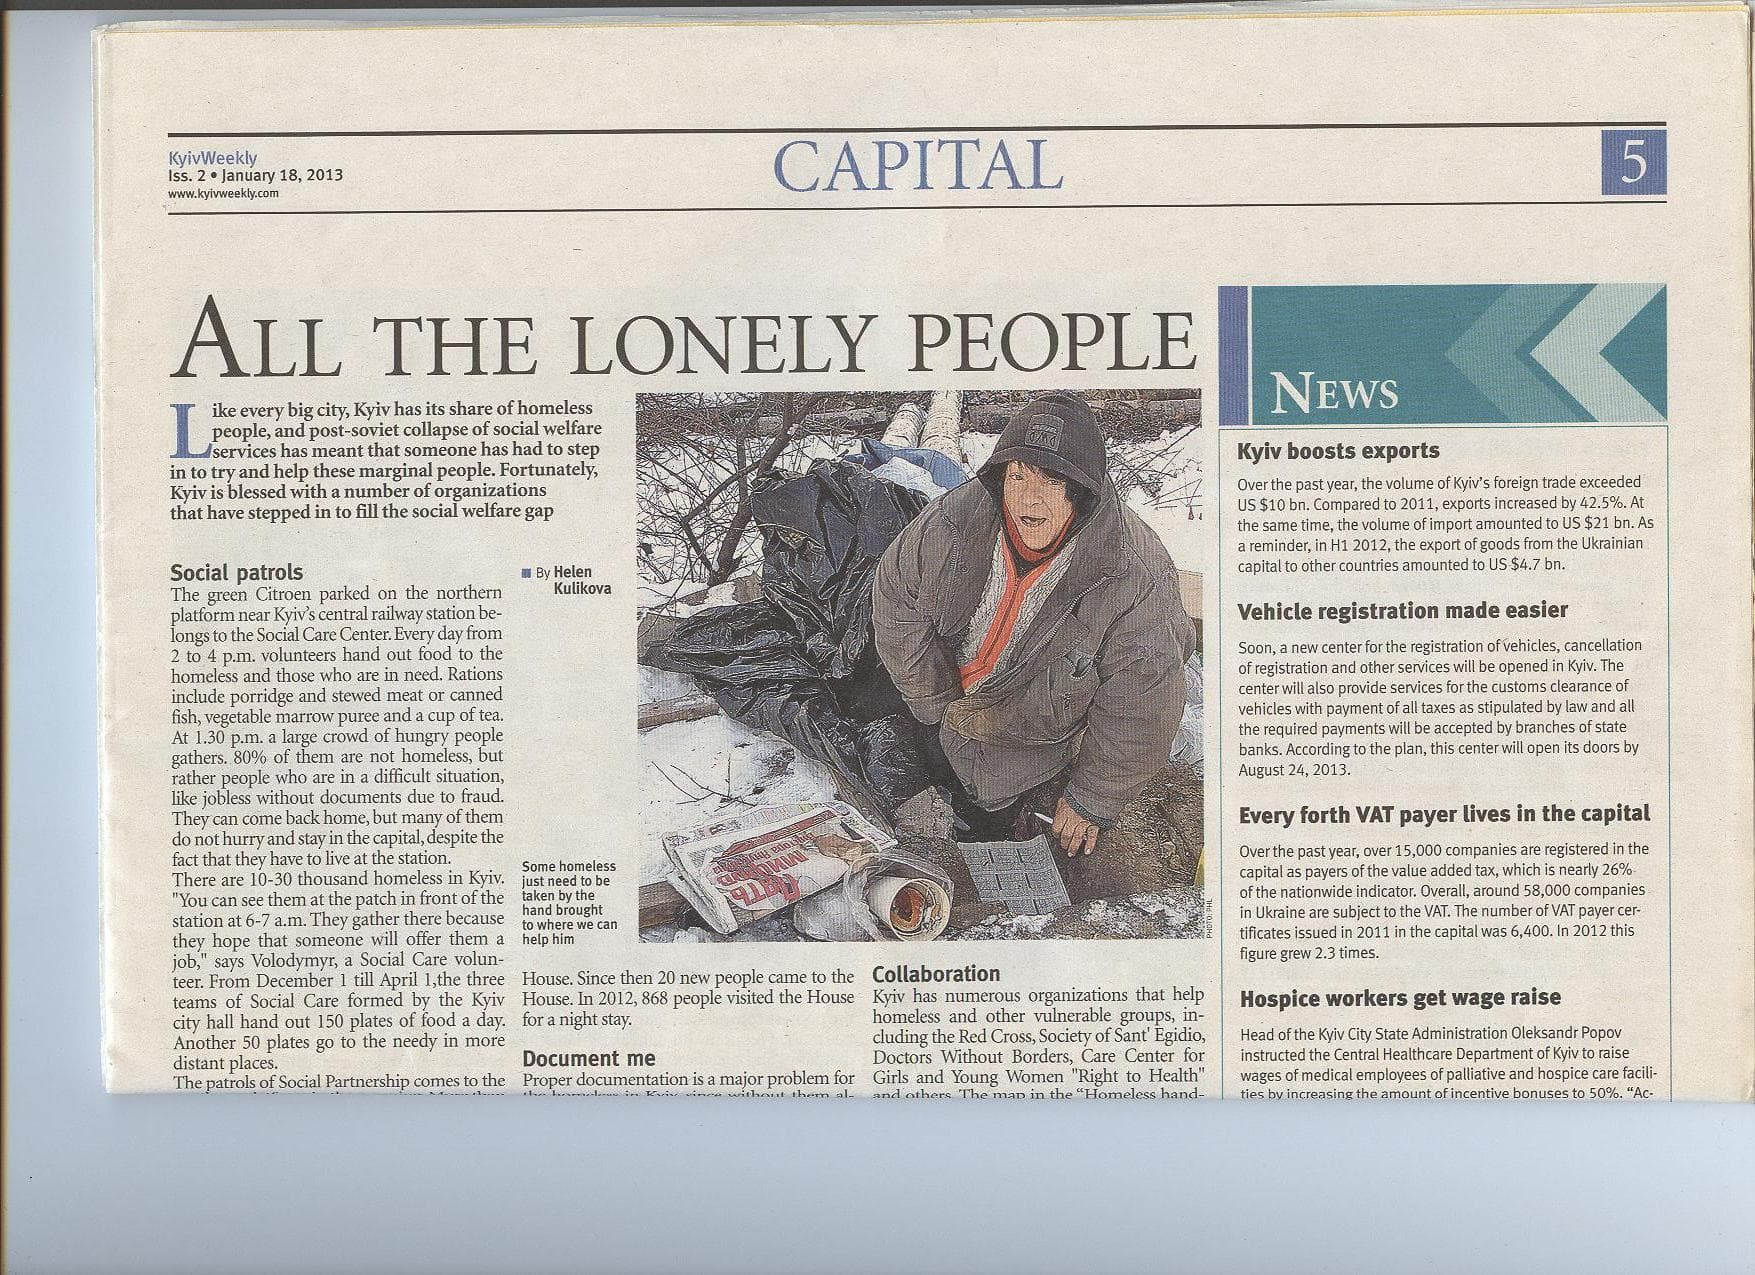
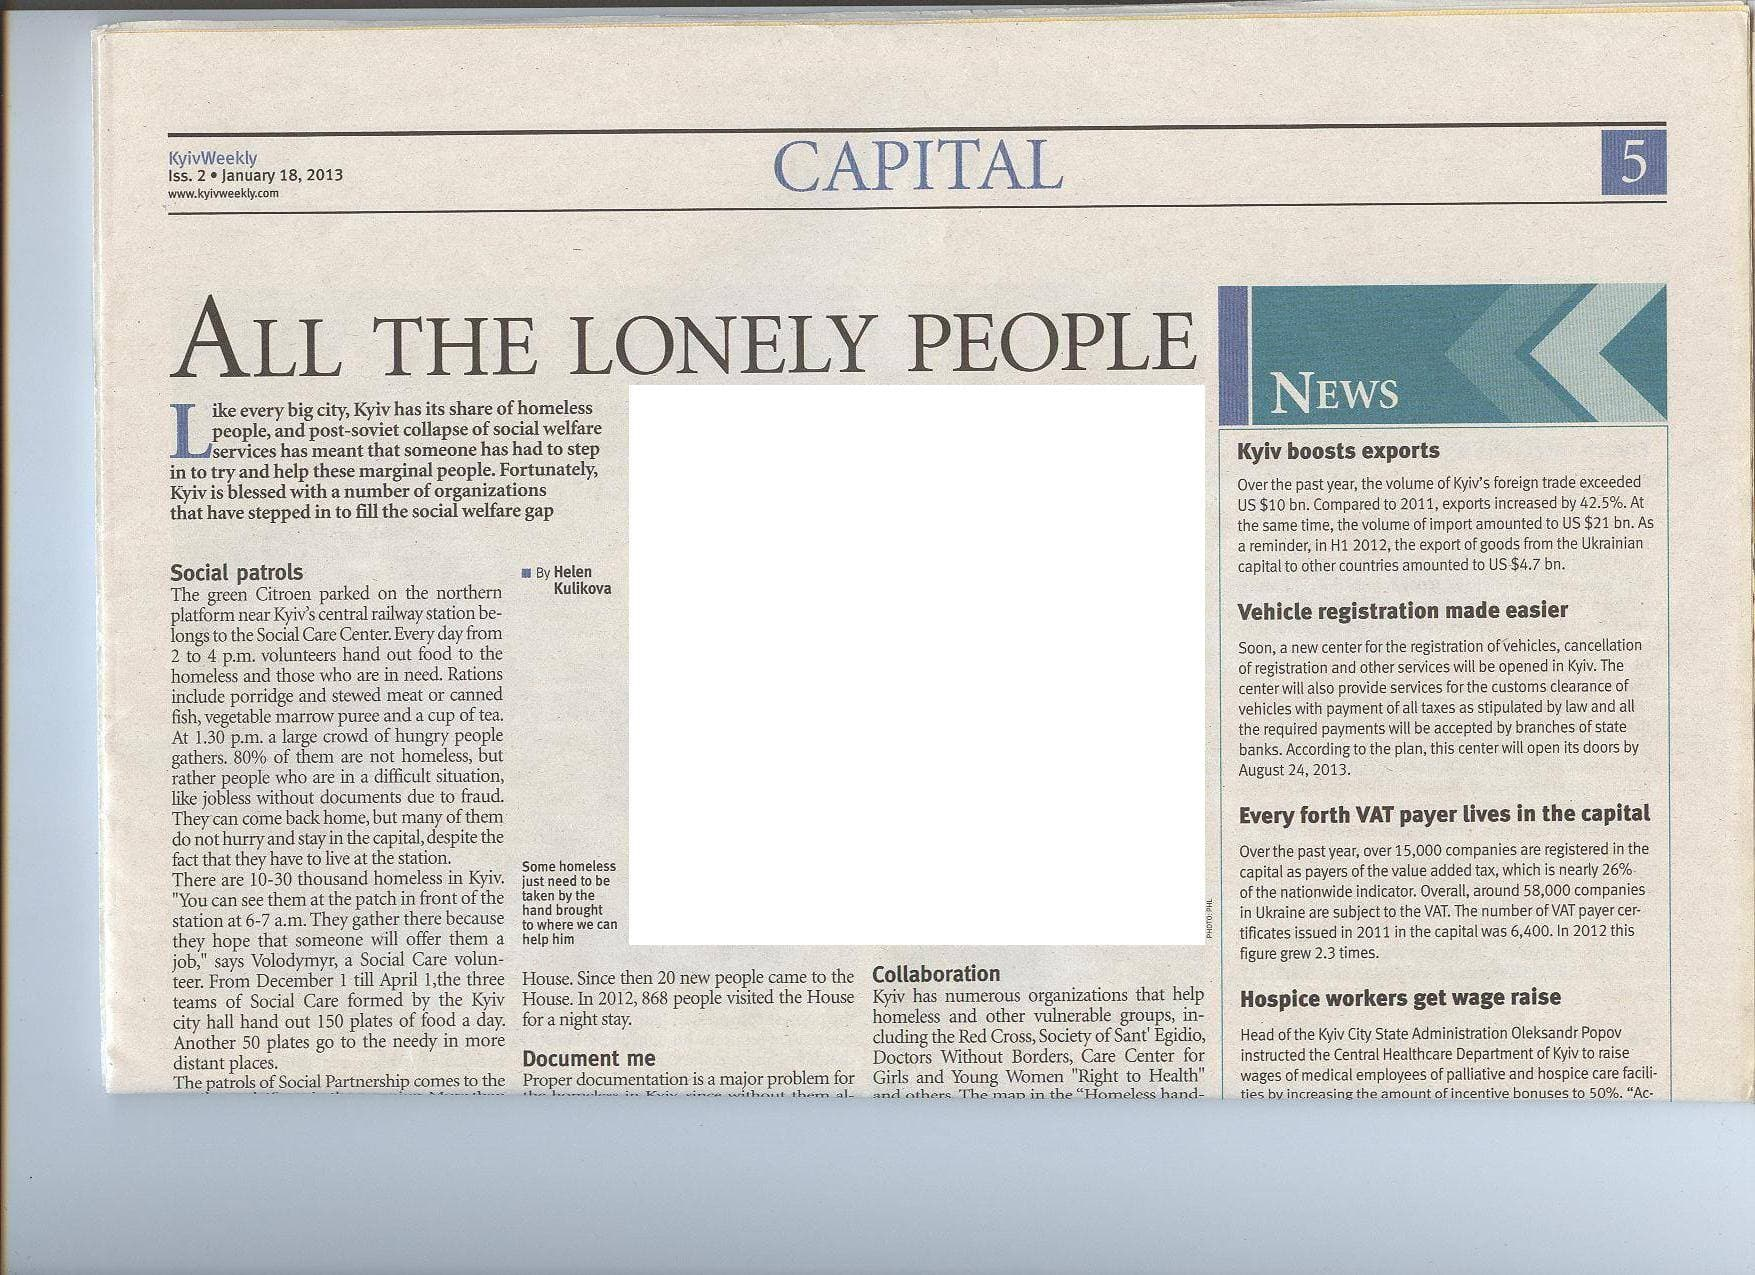
removed photos on jpgs, minor CSS fixes

Changed region(s): [[0.3385, 0.2753, 0.7077, 0.7647]]

diff --git a/src/pages/Media/data/mediaData.js b/src/pages/Media/data/mediaData.js
@@ -54,8 +54,8 @@ export const mediaItems = [
     },
 
     description: {
-      en: "An article exploring the prospects for Ukraine's first recycling companies and the environmental risks associated with landfills",
-      ua: "Стаття про перспективи перших українських гравців в царині переробки і ризики сміттєзвалищ для екології країни",
+      en: "An article explores the prospects for Ukraine's recycling companies and the environmental risks associated with landfills",
+      ua: "Стаття про перспективи українських гравців в царині переробки і ризики сміттєзвалищ для екології країни",
     },
   },
 
@@ -82,7 +82,7 @@ export const mediaItems = [
     },
 
     description: {
-      en: "An article examining modern snow clearance practices, municipal maintenance regulations, and the performance of public utility services",
+      en: "An article examines snow clearance practices, municipal maintenance regulations, and the performance of public utility services",
       ua: "Стаття висвітлює сучасні методи снігоприбирання, дає оцінку міським законам благоустрою і роботі комунальних служб",
     },
   },
@@ -110,7 +110,7 @@ export const mediaItems = [
     },
 
     description: {
-      en: "An article about Kyiv's homeless population, the realities of municipal shelters, and the challenges of obtaining legal identification documents",
+      en: "An article about Kyiv's homeless population, the realities of municipal shelters, and the challenges in obtaining legal identification documents",
       ua: "Стаття про безпритульних Києва, реальність міських притулків та перспективи документації",
     },
   },
@@ -138,7 +138,7 @@ export const mediaItems = [
     },
 
     description: {
-      en: "An article examining urban planning challenges, from master planning to development practices that undermine established architectural principles of urban living",
+      en: "An article examines urban planning challenges, from master planning to development practices that undermine architectural principles of urban living",
       ua: "Стаття описує проблеми у містобудуванні - від генерального планування, до містобудівних практик котрі порушують архітектурні принципи розвитку сучаних міст",
     },
   },
@@ -166,7 +166,7 @@ export const mediaItems = [
     },
 
     description: {
-      en: "An article explores the historical and current trends of organized crime in Kyiv, presents crime statistics across residential districts, and discusses emerging forms of urban surveillance",
+      en: "An article explores the historical and current trends in Kyiv's organized crime, presents crime statistics across residential areas, and discusses emerging forms of urban surveillance",
       ua: "Стаття описує минуле і сучасність київського бандитизму, представляє статиску рівня злочинності у житлових масивах і нові практики спостереження за містянами",
     },
   },
@@ -222,7 +222,7 @@ export const mediaItems = [
     },
 
     description: {
-      en: "An article tracing the past, present, and uncertain future of Kyiv's tram network",
+      en: "An article traces the past, present, and uncertain future of Kyiv's tram network",
       ua: "Стаття про минуле, сучасність і примарне майбутнє київських трамвайних маршрутів",
     },
   },
@@ -250,8 +250,8 @@ export const mediaItems = [
     },
 
     description: {
-      en: "An article covering the first exhibition by renowned Ukrainian artist Halyna Moskvitina, who spent ten years in Nepal and developed a distinctive artistic style of Svetangs - paintings that radiate transcendental light",
-      ua: "Стаття присвячена відкриттю першої виставки відомої української художниці Галини Москвітіної, котра 10 років жила у Непалі і віднайшла авторський художній стиль светангів - картин, котрі випромінюють трансцендентне світло",
+      en: "An article covers the first exhibition by Ukrainian artist Halyna Moskvitina, who spent ten years in Nepal and developed a distinctive artistic style of Svetangs - paintings that radiate transcendental light",
+      ua: "Стаття присвячена відкриттю першої виставки української художниці Галини Москвітіної, котра 10 років жила у Непалі і віднайшла авторський художній стиль светангів - картин, котрі випромінюють трансцендентне світло",
     },
   },
 ];

diff --git a/src/pages/Media/Media.jsx b/src/pages/Media/Media.jsx
@@ -1,11 +1,9 @@
 import { useState, useEffect } from "react";
-
 import { mediaItems } from "./data/mediaData";
-
 import MediaCard from "./MediaCard";
 import MediaExplorer from "./MediaExplorer";
-
 import styles from "./Media.module.css";
+
 
 export default function Media() {
   const STORAGE_KEY = "media-state";
@@ -14,7 +12,6 @@ export default function Media() {
     const saved = JSON.parse(
       sessionStorage.getItem(STORAGE_KEY)
     );
-
     return saved?.currentIndex ?? 0;
   });
 
@@ -22,9 +19,7 @@ export default function Media() {
     const saved = JSON.parse(
       sessionStorage.getItem(STORAGE_KEY)
     );
-
     if (!saved?.explorerOpened) return null;
-
     return mediaItems[saved.currentIndex];
   });
 
@@ -42,12 +37,13 @@ export default function Media() {
     );
   };
 
+
   useEffect(() => {
     if (!selected) return;
-
     setSelected(mediaItems[currentIndex]);
   }, [currentIndex]);
 
+  
   useEffect(() => {
     sessionStorage.setItem(
       STORAGE_KEY,
@@ -58,6 +54,7 @@ export default function Media() {
     );
   }, [currentIndex, selected]);
 
+  
   return (
     <section className={styles.media}>
       <header className={styles.header}>

diff --git a/src/pages/Home/Home.module.css b/src/pages/Home/Home.module.css
@@ -80,7 +80,6 @@ section {
 
 .card:hover {
 	transform: translateY(-3px);
-	border-color: var(--accent);
 }
 
 .card p {
@@ -135,8 +134,7 @@ button,
 
 .tags span:hover {
 	transform: translateY(-1px);
-	border-color: var(--accent-2);
-	border-color: rgb(255 255 255 / 36%);
+	border-color: var(--border-2);
 }
 
 

diff --git a/src/styles/index.css b/src/styles/index.css
@@ -24,11 +24,10 @@ ul {
   --surface-2: #1c2230;
   --text: #eaeaea;
   --muted: #a0a0a0;
-  /*--accent: #ff7a59;*/
   --accent:#5834eb;
   --accent-2: #ffe1d6;
   --border: #2a2f3a;
-
+  --border-2:#464c52;
   --space-1: 4px;
   --space-2: 8px;
   --space-3: 12px;
